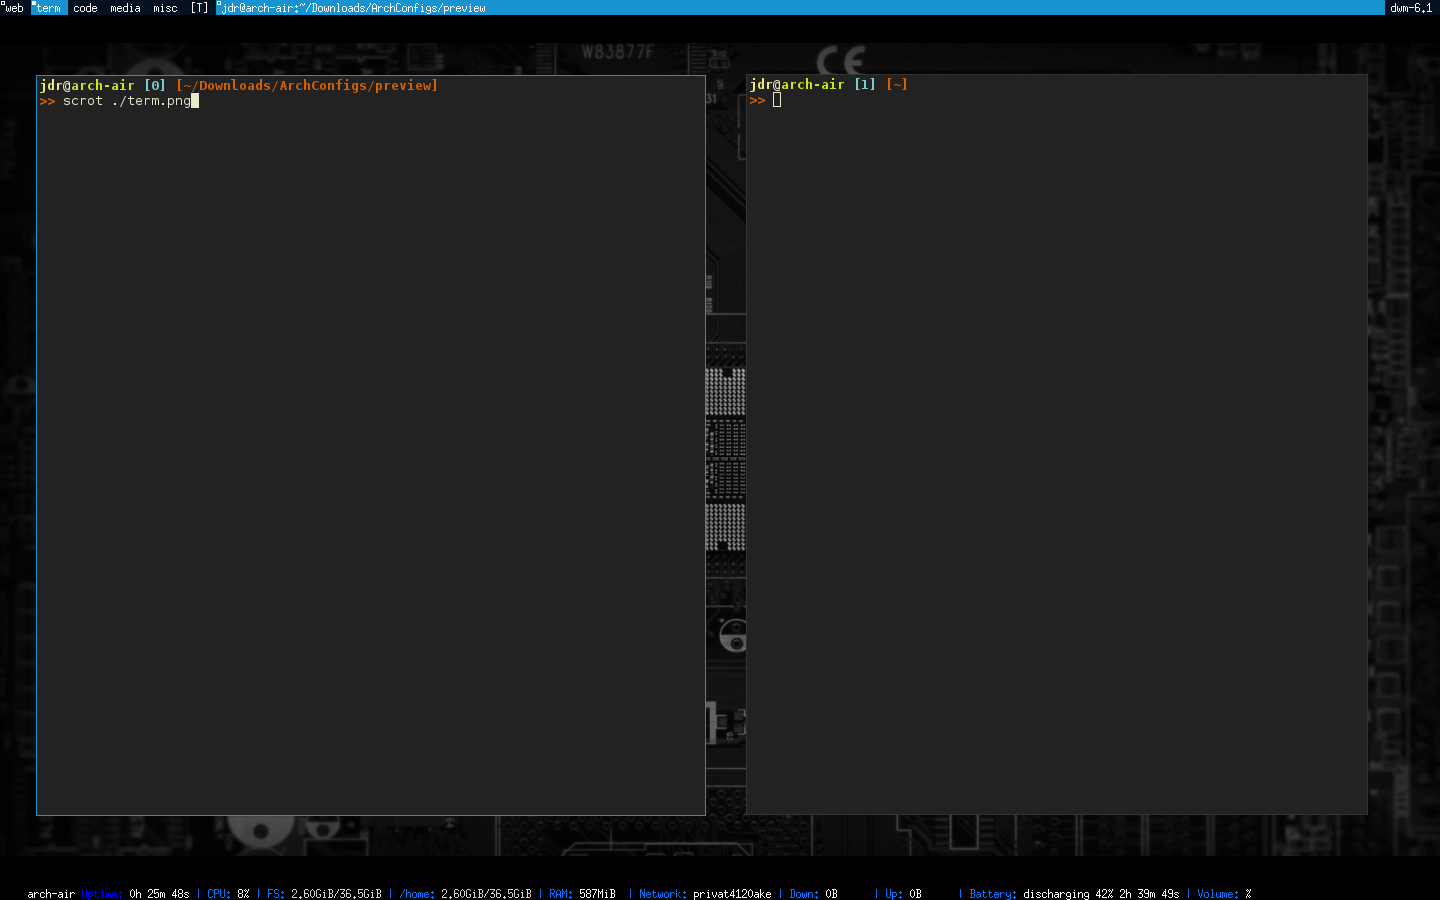
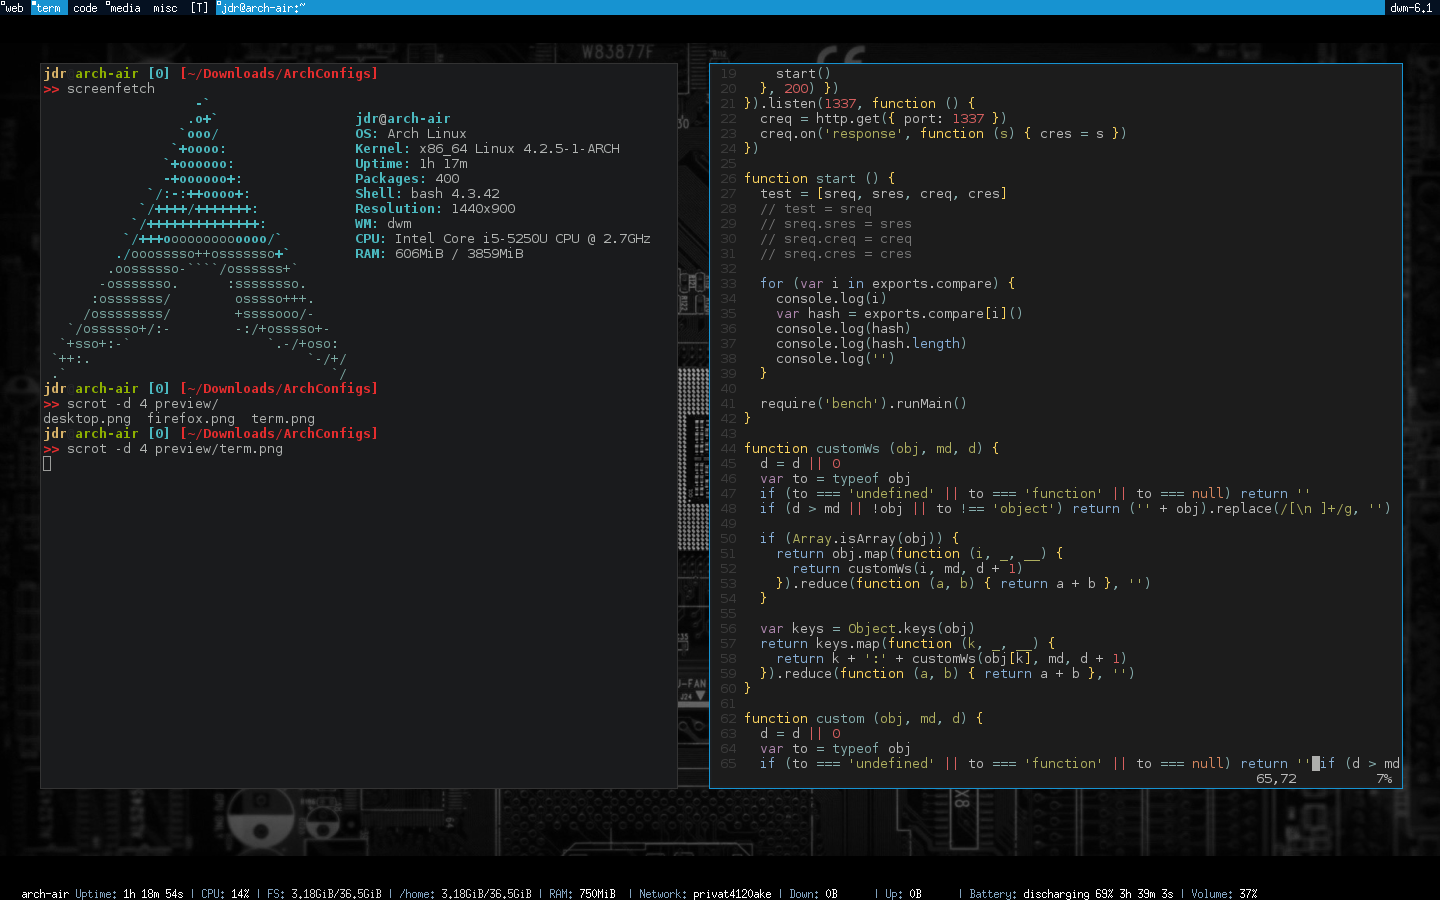
vimrc added, modprobes fiels for macbook, xresources colors changed to fit vim theme

diff --git a/README.md b/README.md
@@ -18,6 +18,7 @@ Firefox
 	firefox with vimoperator - web
 	nitrogen - for setting background image
 	xf86-input-mtrack - touchpad driver
+	vim - text editor
 
 # Usage 
 Copy the files you need and edit then to fit your needs.
@@ -33,3 +34,7 @@ colors, fonts and other settings are located in .Xresources
 .vimperatorrc and vimperator folder are placed in ~/.
 stylish.sqlite, use stylish addon in firefox, go to about:config and find 
 extensions.stylish.dbfile and point it to this file to load styles.
+
+## vim 
+vundle used to manage plugins. YouCompleteMe and tern needs to have aditional install steps.
+install.sh and npm install.
